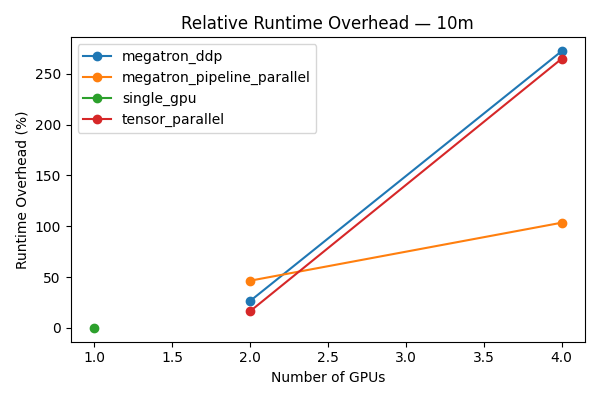
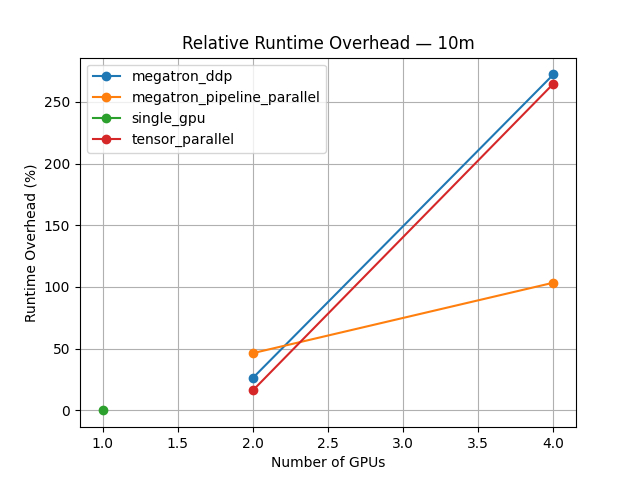
Revamp plots and plot generators

diff --git a/src/tools/metrics/generate_main_plots.py b/src/tools/metrics/generate_main_plots.py
@@ -1,11 +1,19 @@
 """
 For use with single-tp-dpp-pp CSV results file.
+
+python tools/metrics/generate_main_plots.py ../results/single-tp-dpp-pp-experiment-results.csv
 """
 
 import argparse
+from pathlib import Path
 
 import pandas as pd
 import matplotlib.pyplot as plt
+
+PLOTS_PATH = Path(__file__).parent.parent.parent.parent.joinpath(
+    "results/plots/tp-pp-ddp"
+)
+
 
 PLOT_CHOICE_KWARGS_MAP = {
     "throughput": {
@@ -13,7 +21,7 @@ PLOT_CHOICE_KWARGS_MAP = {
         "ylabel": "Throughput (tokens/sec)",
         "title": "Throughput vs GPU Count",
     },
-    "throughput_efficiency": {
+    "throughput_eff": {
         "metric": "throughput_efficiency_percent",
         "ylabel": "Efficiency (%)",
         "title": "Throughput Efficiency",
@@ -23,7 +31,7 @@ PLOT_CHOICE_KWARGS_MAP = {
         "ylabel": "Runtime Overhead (%)",
         "title": "Relative Runtime Overhead",
     },
-    "peak_gpu": {
+    "peak_mem": {
         "metric": "peak_gpu_mem_mb",
         "ylabel": "Peak GPU Memory (MB)",
         "title": "Peak Memory Usage",
@@ -33,20 +41,18 @@ PLOT_CHOICE_KWARGS_MAP = {
 MODEL_SIZE_CHOICES = ["10m", "100m", "300m", "500m", "1b"]
 
 
-def plot_metric_vs_gpus(df, model_size, metric, ylabel, title):
+def plot_metric_vs_gpus(df, model_size, plot_type, metric, ylabel, title):
     subset = df[df["model_size"] == model_size]
+    fig, ax = plt.subplots()
 
-    plt.figure(figsize=(6, 4))
     for strategy in subset["strategy"].unique():
         s = subset[subset["strategy"] == strategy]
-        plt.plot(s["num_devices"], s[metric], marker="o", label=strategy)
+        ax.plot(s["num_devices"], s[metric], marker="o", label=strategy)
 
-    plt.xlabel("Number of GPUs")
-    plt.ylabel(ylabel)
-    plt.title(f"{title} — {model_size}")
-    plt.legend()
-    plt.tight_layout()
-    plt.show()
+    ax.grid()
+    ax.set(xlabel="Number of GPUs", ylabel=ylabel, title=f"{title} — {model_size}")
+    ax.legend()
+    fig.savefig(f"{PLOTS_PATH}/{plot_type}/{model_size}_{plot_type}.png")
 
 
 if __name__ == "__main__":
@@ -65,8 +71,10 @@ if __name__ == "__main__":
     df = pd.read_csv(args.source)
     if args.plot_type:
         for model_size in MODEL_SIZE_CHOICES:
-            plot_metric_vs_gpus(df, model_size, **PLOT_CHOICE_KWARGS_MAP[args.plot_type])
+            plot_metric_vs_gpus(
+                df, model_size, args.plot_type, **PLOT_CHOICE_KWARGS_MAP[args.plot_type]
+            )
     else:
-        for _, kwargs in PLOT_CHOICE_KWARGS_MAP.items():
+        for plot_type, kwargs in PLOT_CHOICE_KWARGS_MAP.items():
             for model_size in MODEL_SIZE_CHOICES:
-                plot_metric_vs_gpus(df, model_size, **kwargs)
+                plot_metric_vs_gpus(df, model_size, plot_type, **kwargs)

diff --git a/src/tools/metrics/generate_zero_plots.py b/src/tools/metrics/generate_zero_plots.py
@@ -1,20 +1,25 @@
 """
 For use with simple-single-and-zero CSV results file.
+
+python tools/metrics/generate_zero_plots.py ../results/simple-single-and-zero-experiment-results.csv
 """
 
 import argparse
+from pathlib import Path
 
 import pandas as pd
 import matplotlib.pyplot as plt
 
+PLOTS_PATH = Path(__file__).parent.parent.parent.parent.joinpath("results/plots/zero")
+
 
 PLOT_CHOICE_KWARGS_MAP = {
-    "peak_mem": {
+    "peak_mem_savings": {
         "metric": "peak_gpu_mem_mb",
         "ylabel": "Peak GPU Memory (MB)",
         "title": "Peak Memory Savings vs Zero Stage",
     },
-    "throughput": {
+    "throughput_penalty": {
         "metric": "throughput_tokens_sec",
         "ylabel": "Throughput (tokens/sec)",
         "title": "Throughput Penalty vs ZeRO Stage",
@@ -31,26 +36,20 @@ LABEL_TO_STAGE_MAPPING = {
     "simple_zero_stage3_offload": "Stage 3 Offload",
 }
 
-def plot_metric_vs_stages(df, model_size, metric, ylabel, title):
+
+def plot_metric_vs_stages(df, model_size, plot_type, metric, ylabel, title):
     subset = df[df["model_size"] == model_size].copy()
     subset["stage"] = subset["strategy"].map(LABEL_TO_STAGE_MAPPING)
 
-    plt.figure(figsize=(10, 4))
-    for d in sorted(subset['num_devices'].unique()):
-        s = subset[subset['num_devices'] == d]
-        plt.plot(
-            s['stage'],
-            s[metric],
-            marker='o',
-            label=f"{d} GPU"
-        )
+    fig, ax = plt.subplots()
+    for d in sorted(subset["num_devices"].unique()):
+        s = subset[subset["num_devices"] == d]
+        ax.plot(s["stage"], s[metric], marker="o", label=f"{d} GPU")
 
-    plt.xlabel("ZeRO Stage")
-    plt.ylabel(ylabel)
-    plt.title(f"{title} — {model_size}")
-    plt.legend()
-    plt.tight_layout()
-    plt.show()
+    ax.grid()
+    ax.set(xlabel="ZeRO Stage", ylabel=ylabel, title=f"{title} — {model_size}")
+    ax.legend()
+    fig.savefig(f"{PLOTS_PATH}/{plot_type}/{model_size}_{plot_type}.png")
 
 
 if __name__ == "__main__":
@@ -69,9 +68,10 @@ if __name__ == "__main__":
     df = pd.read_csv(args.source)
     if args.plot_type:
         for model_size in MODEL_SIZE_CHOICES:
-            plot_metric_vs_stages(df, model_size, **PLOT_CHOICE_KWARGS_MAP[args.plot_type])
+            plot_metric_vs_stages(
+                df, model_size, args.plot_type, **PLOT_CHOICE_KWARGS_MAP[args.plot_type]
+            )
     else:
-        for _, kwargs in PLOT_CHOICE_KWARGS_MAP.items():
+        for plot_type, kwargs in PLOT_CHOICE_KWARGS_MAP.items():
             for model_size in MODEL_SIZE_CHOICES:
-                plot_metric_vs_stages(df, model_size, **kwargs)
-
+                plot_metric_vs_stages(df, model_size, plot_type, **kwargs)
